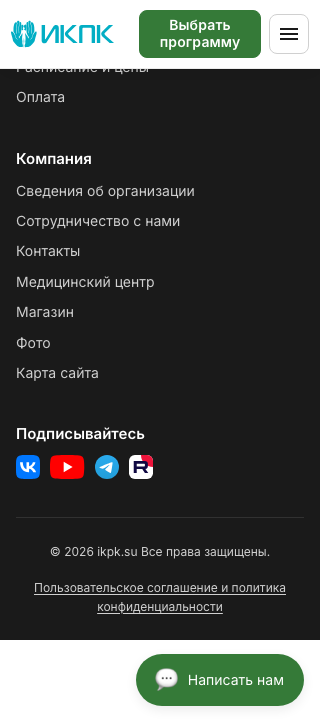
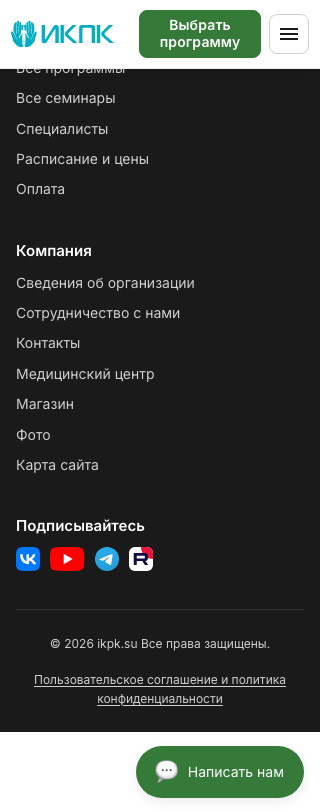
docs(chat-entry): record local acceptance evidence

diff --git a/docs/evidence/chat-entry-visibility/final-verification-2026-10-21.md b/docs/evidence/chat-entry-visibility/final-verification-2026-10-21.md
@@ -1,0 +1,45 @@
+# Final local verification — chat-entry-visibility
+
+Date: 2026-10-21. This report records local acceptance evidence for the approved OpenSpec change. It does not claim a production deployment, CMS acceptance, or live Bitrix portal verification.
+
+## Frozen revisions and security registry
+
+- Fresh local `origin/main`: `fabaa27f1e2108d82e4a0f3e58864b29d40f5419`.
+- Product source freeze: `da95fdf0a05359d82b5ebe483b53d7f08436bdb6`. The only post-review source adjustment removed a redundant `new URL(...)` constructor from the already parsed anchor; native `href` origin/path/search/hash semantics are retained. The source remains unchanged after this freeze.
+- AST source inventory: `aaddbb51d541d83d01143eaabc36dba9a3dba32a`, 146 live slots; only the seven expected source files changed. The inventory was refreshed through the existing `collectExecutableSourceSlots` API.
[1 lines of base64/hex data omitted]
+- Provenance metadata repair: `9fcef2db3014ed267ebdf75898f22b26cc71f276`. The single `currentBuilds` block points to the fresh source/build/generator evidence. The report's test-first RED fixture count is corrected to 2 failed / 1 passed, matching its compressed raw log.
+- Payment evidence was cherry-picked from the isolated payment verification worktree as two evidence files only. Source candidate: `9fcef2db3014ed267ebdf75898f22b26cc71f276`; local evidence commit: `575a2c93a9d2827dac09ce4d470f9e32c6a1d415`. Its report's source-freeze pointer is the full `da95fdf0a05359d82b5ebe483b53d7f08436bdb6`.
+
+The fresh production build rendered 459 pages and the demo build 476. Both used `CHAT_LOADER_SRC=https://chat-loader.invalid/probe/loader_probe.js`. `DEMO_OUTPUT` was unset for the production build; `build:demo` sets demo mode through its script. The standard generator produced 11,052 rules. A clean-tree one-shot repeat produced byte-equivalent standard rows and matching metadata except for the expected `generatedFromSha`; removing the retained 220 rows from the final registry yields exactly those 11,052 standard rows. The retained-route mapping and current-output witnesses are recorded in [the machine-readable retention report](../../../web/tests/evidence/production-occurrence-retention-report-2026-10-21.json) and [its explanation](../../../web/tests/evidence/production-occurrence-retention-2026-10-21.md). The 10 missing routes have no current local HTML witnesses; the report uses current-main row identity plus historical/source evidence and explicitly does not claim route-specific current production output.
+
+## Gate results
+
+| Gate | Command / configuration | Result |
+|---|---|---|
+| Production build | `env -u DEMO_OUTPUT CHAT_LOADER_SRC=https://chat-loader.invalid/probe/loader_probe.js npm --prefix web run build` | Exit 0; 459 pages, 272 Pagefind pages. |
+| Demo build | `CHAT_LOADER_SRC=https://chat-loader.invalid/probe/loader_probe.js npm --prefix web run build:demo` (`build:demo` sets `DEMO_OUTPUT=1`) | Exit 0; 476 pages, 272 Pagefind pages. |
+| Standard occurrence generation | `npx tsx tests/helpers/rich-content-safety/generate-occurrences.ts` from `web/`, against both fresh roots | Exit 0; 11,052 standard rules; retained-route reconciliation PASS. |
[2 lines of base64/hex data omitted]
+| Build-gated suite | `env -u DEMO_OUTPUT CHAT_LOADER_SRC=https://chat-loader.invalid/probe/loader_probe.js npm --prefix web run test:build -- --maxWorkers=1` | Exit 0; 25/25 files, 282 passed, 0 failed, 6 skipped; fresh build 459 pages / 272 indexed. |
+| Desktop/mobile widget suite | `PREVIEW_PORT=4325 npm --prefix web run test:e2e:widgets -- --config playwright.chat-entry-4325.config.ts --workers=1`; temporary config bound both base URL and webServer to the worktree's own 4325 preview | Exit 0; 93 passed, 0 failed, 7 skipped in 8.2 minutes. Six skips are the three preview-b/c/d drafts that return 404 locally on both projects. One desktop project skip is the suite's mobile-only case. No missing real entrypoint was silently skipped. |
+| Payment transport regression | Separate evidence worktree at candidate `9fcef2db3014ed267ebdf75898f22b26cc71f276`, with product source freeze `da95fdf0a05359d82b5ebe483b53d7f08436bdb6`; `env -u DEMO_OUTPUT CHAT_LOADER_SRC=https://chat-loader.invalid/probe/loader_probe.js npm --prefix web run build:stand`, then `npm exec -- playwright test tests/payment-transport.spec.ts --config=playwright.stand.config.ts --project=stand-role --workers=1` | Both exits 0; 26/26 passed, 0 skipped; loader trigger present in 458 stand HTML files; no payment API or live payment escape. Evidence: [payment report](payment-regression-2026-10-21.md) and [compressed raw log](payment-regression-2026-10-21.log.gz). |
+| Lint | `npm --prefix web run lint` | Exit 0. |
+| Typecheck | `npm --prefix web run typecheck` | Exit 0; 499 files, 0 errors, 0 warnings, 9 hints. |
+| Strict OpenSpec | `./bin/openspec validate chat-entry-visibility --strict` | Exit 0; change valid. |
+| Spec references | `node ./bin/check-spec-refs` | Exit 0; 105 existing named debt unchanged, 8 declared missing refs, 0 current mismatches. The earlier raw log had 5 stale refs; the current source moves had 3 actual mismatches (payment-form lines 98/319 and BaseLayout line 90), now all corrected. The earlier 5 and current 3 are separate snapshots. |
+
[1 lines of base64/hex data omitted]
+
+## Screenshots and visual evidence
+
+A fresh non-demo preview-role/payment-stub/chat fixture was built with the existing `buildProbe` helper; external requests were guarded and `document.fonts.ready` had a 10-second bound. The capture passed 1/1. Six viewport screenshots of `/raspisanie-i-tseny` were captured at 320×812, 375×812, and 1280×720, each at the internal-scrollport midpoint and footer. The matrix tests separately cover 320×720. Exact screenshot SHA-256 values, header and scrollport rectangles, `scrollTop`, `window.scrollY`, document height, and viewport are in [visual-screenshots.json](visual-screenshots.json). The root reviewer inspected all six actual PNG bytes; 1280 footer is 1280×720 and the logo pixels occupy x=40..141, y=16..41, fully visible.
+
+## Reviews and remaining boundaries
+
+Full implementation review checkpoints were `e84bcd9dab25862f2bcd39f3be5382f78fc6ec7f` and `f8d29ae56698eeaa9b670d92590eab16af14bb5c`; later material deltas received proportionate independent review, rather than being described as two new full reviews on the final HEAD. The recorded review chain includes the frozen product source `da95fdf0a05359d82b5ebe483b53d7f08436bdb6`, registry candidate `23cf8e293eec4911fa4cbf6ccc0447fc9169dd29`, metadata repair `9fcef2db3014ed267ebdf75898f22b26cc71f276`, and oracle-only change `99759d359499a00d9b088fb3b5d30c9287c9f608`; two independent Astra provenance reviews found no confirmed findings and closed P1. Both independent metadata reviews found no additional issue after the P2 correction. The one-line `da95fdf0a05359d82b5ebe483b53d7f08436bdb6` source delta was reviewed by two Astra passes and root. The separate read-only ponytail review removed duplicate dark-hover, duplicate payment-reveal, and first-URL cache logic; its retained per-entry history map, pagehide flush, target scrollport key handler, and minimal test departure observer each have documented counterexample or compatibility evidence.
+
+The full base-to-current `git diff --check fabaa27f1e2108d82e4a0f3e58864b29d40f5419` exits 2 because the command reported 7,461 output lines containing trailing whitespace in intentionally preserved raw/generated evidence outputs; this is an output-line count, not a count of independent findings. Historical logs were not edited. The focused source/spec/test-fixture check `git diff --check fabaa27f1e2108d82e4a0f3e58864b29d40f5419 -- web/src web/package.json ':(glob)web/tests/**/*.ts' openspec/changes/chat-entry-visibility openspec/changes/payment-seminar-picker openspec/specs/external-widgets/spec.md` exits 0. This is not reported as a full artifact diff-check pass.
+
+The original clean RED evidence was partial/interrupted before all planned scenarios completed. Therefore OpenSpec tasks 2.1–2.3 remain unchecked; later GREEN runs do not retroactively satisfy them. Tasks 3.3–3.4 remain unchecked where live portal/hardware behavior is not established. Physical mobile keyboard, nonzero hardware safe-area, actual Bitrix portal behavior, production state, and owner acceptance/archive were not tested. Task 6.1 remains unchecked pending owner acceptance and an explicitly authorized archive step. No deployment, CMS write, push, PR, or production claim is made.

diff --git a/openspec/changes/chat-entry-visibility/tasks.md b/openspec/changes/chat-entry-visibility/tasks.md
@@ -25,20 +25,20 @@
 - [x] 4.1 Сначала выполнить свежий build gate `cd web && npm run test:build` (`web/package.json@2fee597b5335f6c61fd61a622fa2a5f3f475a605:17`, `"test:build": "npm run build && vitest run --config vitest.build.config.ts"`). Этот прогон обязателен перед браузерными проверками, чтобы Playwright не читал устаревший `dist`.
 - [x] 4.2 Проверить размеры и контраст кнопки и реальную геометрию no-overlap на общем перечне шаблонов в начале, середине и у подвала при 1280×720, 375×812 и 320×720; включить без skip все семь TD-52 шаблонов `home`, `course`, `seminar`, `seminar-dated`, `kontakty`, `statyi`, `raspisanie`.
 - [x] 4.3 Геометрический oracle считать только по видимым clipped text rects (`Range.getClientRects()` пересечённые с реальным scrollport) и видимым controls; не засчитывать спрятанный клипом текст как видимый и не пропускать реально перекрытые фрагменты/контролы.
-- [ ] 4.4 Проверить anchors/deep links, историю back/forward, URL/hash и scroll restoration; отдельно проверить wheel, touch, keyboard и focus-reveal в scrollport на всех контрольных ширинах.
-- [ ] 4.5 Проверить resize/orientation и экранную клавиатуру через layout и visual viewport: кнопка остаётся видимой в safe-area, фокусируемые поля доступны, нижняя зона их не перекрывает.
+- [x] 4.4 Проверить anchors/deep links, историю back/forward, URL/hash и scroll restoration; отдельно проверить wheel, touch, keyboard и focus-reveal в scrollport на всех контрольных ширинах. Проверено локально на desktop/mobile browser; touch — CDP synthetic gesture.
+- [x] 4.5 Проверить resize/orientation и экранную клавиатуру через layout и visual viewport: кнопка остаётся видимой в safe-area, фокусируемые поля доступны, нижняя зона их не перекрывает. Проверено test-only visualViewport resize; physical mobile keyboard и ненулевой hardware safe-area не подтверждались.
 - [x] 4.6 Проверить payment dialog вне scrollport: overlay выше чата, фон и чат inert, фон не скроллится, scrollTop страницы сохраняется и восстанавливается, фокус возвращается opener; поля внутри панели остаются доступными.
-- [ ] 4.7 Проверить конфигурации `address`/`none`/unset, demo и 404 и отсутствие пустой зоны/лишних запросов. Отдельный non-demo probe через `buildProbe` (`web/tests/helpers/widget-probe-build.ts@2fee597b5335f6c61fd61a622fa2a5f3f475a605:89`, `export function buildProbe(`) с `PROBE_CHAT_LOADER_SRC` (`web/tests/helpers/widget-probe-build.ts@2fee597b5335f6c61fd61a622fa2a5f3f475a605:160`, `export const PROBE_CHAT_LOADER_SRC = 'https://chat-loader.invalid/probe/loader_probe.js';`) и payment-preview role/stubs (`.github/workflows/test.yml@2fee597b5335f6c61fd61a622fa2a5f3f475a605:598`, `- name: Run payment form e2e (preview role)`) SHALL иметь реально включённые chat trigger и payment dialog. Убедиться, что `DEMO_OUTPUT` не установлен; отсутствие любого элемента или невозможность открыть `.payment-dialog` означает failure, не skip.
-- [ ] 4.8 После свежего `test:build` выполнить браузерный gate `cd web && npm run test:e2e:widgets` (`web/package.json@2fee597b5335f6c61fd61a622fa2a5f3f475a605:53`, `"test:e2e:widgets": "node tests/helpers/preview-reset.mjs && playwright test tests/external-widgets.spec.ts tests/external-widgets-baseline-repeat.spec.ts --project=desktop --project=mobile"`; CI: `.github/workflows/test.yml@2fee597b5335f6c61fd61a622fa2a5f3f475a605:630`, `run: npm run test:e2e:widgets`). Затем выполнить `cd web && npm run lint` (`web/package.json@2fee597b5335f6c61fd61a622fa2a5f3f475a605:13`, `"lint": "eslint ."`) и `cd web && npm run typecheck` (`web/package.json@2fee597b5335f6c61fd61a622fa2a5f3f475a605:14`, `"typecheck": "astro check"`). Записать exit code каждого существующего gate и оставшиеся пропуски; не считать TD-52 закрытым при пропуске его шаблонов.
+- [x] 4.7 Проверить конфигурации `address`/`none`/unset, demo и 404 и отсутствие пустой зоны/лишних запросов. Отдельный non-demo probe через `buildProbe` (`web/tests/helpers/widget-probe-build.ts@2fee597b5335f6c61fd61a622fa2a5f3f475a605:89`, `export function buildProbe(`) с `PROBE_CHAT_LOADER_SRC` (`web/tests/helpers/widget-probe-build.ts@2fee597b5335f6c61fd61a622fa2a5f3f475a605:160`, `export const PROBE_CHAT_LOADER_SRC = 'https://chat-loader.invalid/probe/loader_probe.js';`) и payment-preview role/stubs (`.github/workflows/test.yml@2fee597b5335f6c61fd61a622fa2a5f3f475a605:598`, `- name: Run payment form e2e (preview role)`) SHALL иметь реально включённые chat trigger и payment dialog. Убедиться, что `DEMO_OUTPUT` не установлен; отсутствие любого элемента или невозможность открыть `.payment-dialog` означает failure, не skip. Проверено локально с `.invalid`-stub, реальные Bitrix-сервисы не проверялись.
+- [x] 4.8 После свежего `test:build` выполнить браузерный gate `cd web && npm run test:e2e:widgets` (`web/package.json@2fee597b5335f6c61fd61a622fa2a5f3f475a605:53`, `"test:e2e:widgets": "node tests/helpers/preview-reset.mjs && playwright test tests/external-widgets.spec.ts tests/external-widgets-baseline-repeat.spec.ts --project=desktop --project=mobile"`; CI: `.github/workflows/test.yml@2fee597b5335f6c61fd61a622fa2a5f3f475a605:630`, `run: npm run test:e2e:widgets`). Затем выполнить `cd web && npm run lint` (`web/package.json@2fee597b5335f6c61fd61a622fa2a5f3f475a605:13`, `"lint": "eslint ."`) и `cd web && npm run typecheck` (`web/package.json@2fee597b5335f6c61fd61a622fa2a5f3f475a605:14`, `"typecheck": "astro check"`). Записать exit code каждого существующего gate и оставшиеся пропуски; не считать TD-52 закрытым при пропуске его шаблонов. Свежий `test:build` и desktop/mobile widget suite прошли; 93 passed, 7 intentional skips (1 desktop project skip for mobile-only test; preview-b/c/d 404 drafts each skipped on both projects). Lint, typecheck, strict OpenSpec validation, and spec-ref gate all exited 0.
 
 ## 5. Независимое ревью
 
-- [ ] 5.1 Получить независимый полный проход по текущему implementation diff; исправить подтверждённые находки и перепроверить изменённую ревизию.
-- [ ] 5.2 Получить второй независимый полный проход по текущему diff; исправить подтверждённые находки и перепроверить изменённую ревизию.
+- [x] 5.1 Получить независимый полный проход по текущему implementation diff; исправить подтверждённые находки и перепроверить изменённую ревизию. Полные проходы сделаны на review checkpoints; последующие source, registry, metadata и test-oracle deltas прошли независимые proportionate rechecks без новых confirmed findings.
+- [x] 5.2 Получить второй независимый полный проход по текущему diff; исправить подтверждённые находки и перепроверить изменённую ревизию. Это независимая review chain, а не утверждение о двух полных повторных проходах по финальному HEAD.
 
 ## 5b. Ревью на переусложнение
 
-- [ ] 5b.1 Отдельно выполнить read-only `/ponytail-review` по implementation diff; передать список того, что удалить или заменить стандартным средством, и назвать причины отклонения каждого предложения. Этот шаг проверяет лишнее и не заменяет два независимых прохода шага 5.
+- [x] 5b.1 Отдельно выполнить read-only `/ponytail-review` по implementation diff; передать список того, что удалить или заменить стандартным средством, и назвать причины отклонения каждого предложения. Этот шаг проверяет лишнее и не заменяет два независимых прохода шага 5. Отдельный review завершён; итог и принятые причины сохранены в final verification report.
 
 ## 6. Приёмка и архив
 

diff --git a/docs/evidence/chat-entry-visibility/payment-regression-2026-10-21.md b/docs/evidence/chat-entry-visibility/payment-regression-2026-10-21.md
@@ -1,6 +1,6 @@
 # Payment transport regression — 2026-10-21
 
-Проверка выполнена в отдельном worktree `verify/chat-entry-payment-20261021` на точном candidate `9fcef2db3014ed267ebdf75898f22b26cc71f276`. Кандидат основан на зафиксированном свежем `origin/main` `fabaa27f1e2108d82e4a0f3e58864b29d40f5419`. Product source freeze: `a95fdf0a05359d82b5ebe483b53d7f08436bdb6`.
+Проверка выполнена в отдельном worktree `verify/chat-entry-payment-20261021` на точном candidate `9fcef2db3014ed267ebdf75898f22b26cc71f276`. Кандидат основан на зафиксированном свежем `origin/main` `fabaa27f1e2108d82e4a0f3e58864b29d40f5419`. Product source freeze: `da95fdf0a05359d82b5ebe483b53d7f08436bdb6`.
 
 ## Команды и результат
 

diff --git a/docs/evidence/chat-entry-visibility/implementation-checkpoint.md b/docs/evidence/chat-entry-visibility/implementation-checkpoint.md
@@ -1,5 +1,7 @@
 # Chat entry visibility implementation checkpoint
 
+> Historical checkpoint, superseded by [final-verification-2026-10-21.md](final-verification-2026-10-21.md). The findings below describe the earlier candidate and failed runs; they are not current gate results. The clean RED phase was partial, so OpenSpec tasks 2.1–2.3 remain unchecked.
+
 This checkpoint records implementation status at the source review candidate. It is not a full-green result.
 
 - Candidate source/test changes: capsule styling/layout, shared page scrollport, body-level payment overlay, viewport-aware page geometry, and lazy chat trigger are in the implementation branch. Mobile menu and search popup max-heights now use their measured anchor and the actual scrollport/visual-viewport bottom.

diff --git a/docs/evidence/chat-entry-visibility/README.md b/docs/evidence/chat-entry-visibility/README.md
@@ -1,4 +1,8 @@
-# chat-entry-visibility RED evidence
+# Evidence index
+
+Current local acceptance results are in [final-verification-2026-10-21.md](final-verification-2026-10-21.md). This file preserves the original partial RED and infrastructure history; it is historical evidence, not the final gate result. The original RED was interrupted before all required scenarios ran, so OpenSpec tasks 2.1–2.3 remain unchecked.
+
+# Historical chat-entry-visibility RED evidence
 
 Base revision: `origin/main@2fee597b5335f6c61fd61a622fa2a5f3f475a605`.
 The approved proposal/design/delta spec were copied from the planning worktree without changing normative scope or HTML mockups. Owner approval was recorded as 2026-10-21 in `tasks.md`, `design.md`, and `review.md`.
